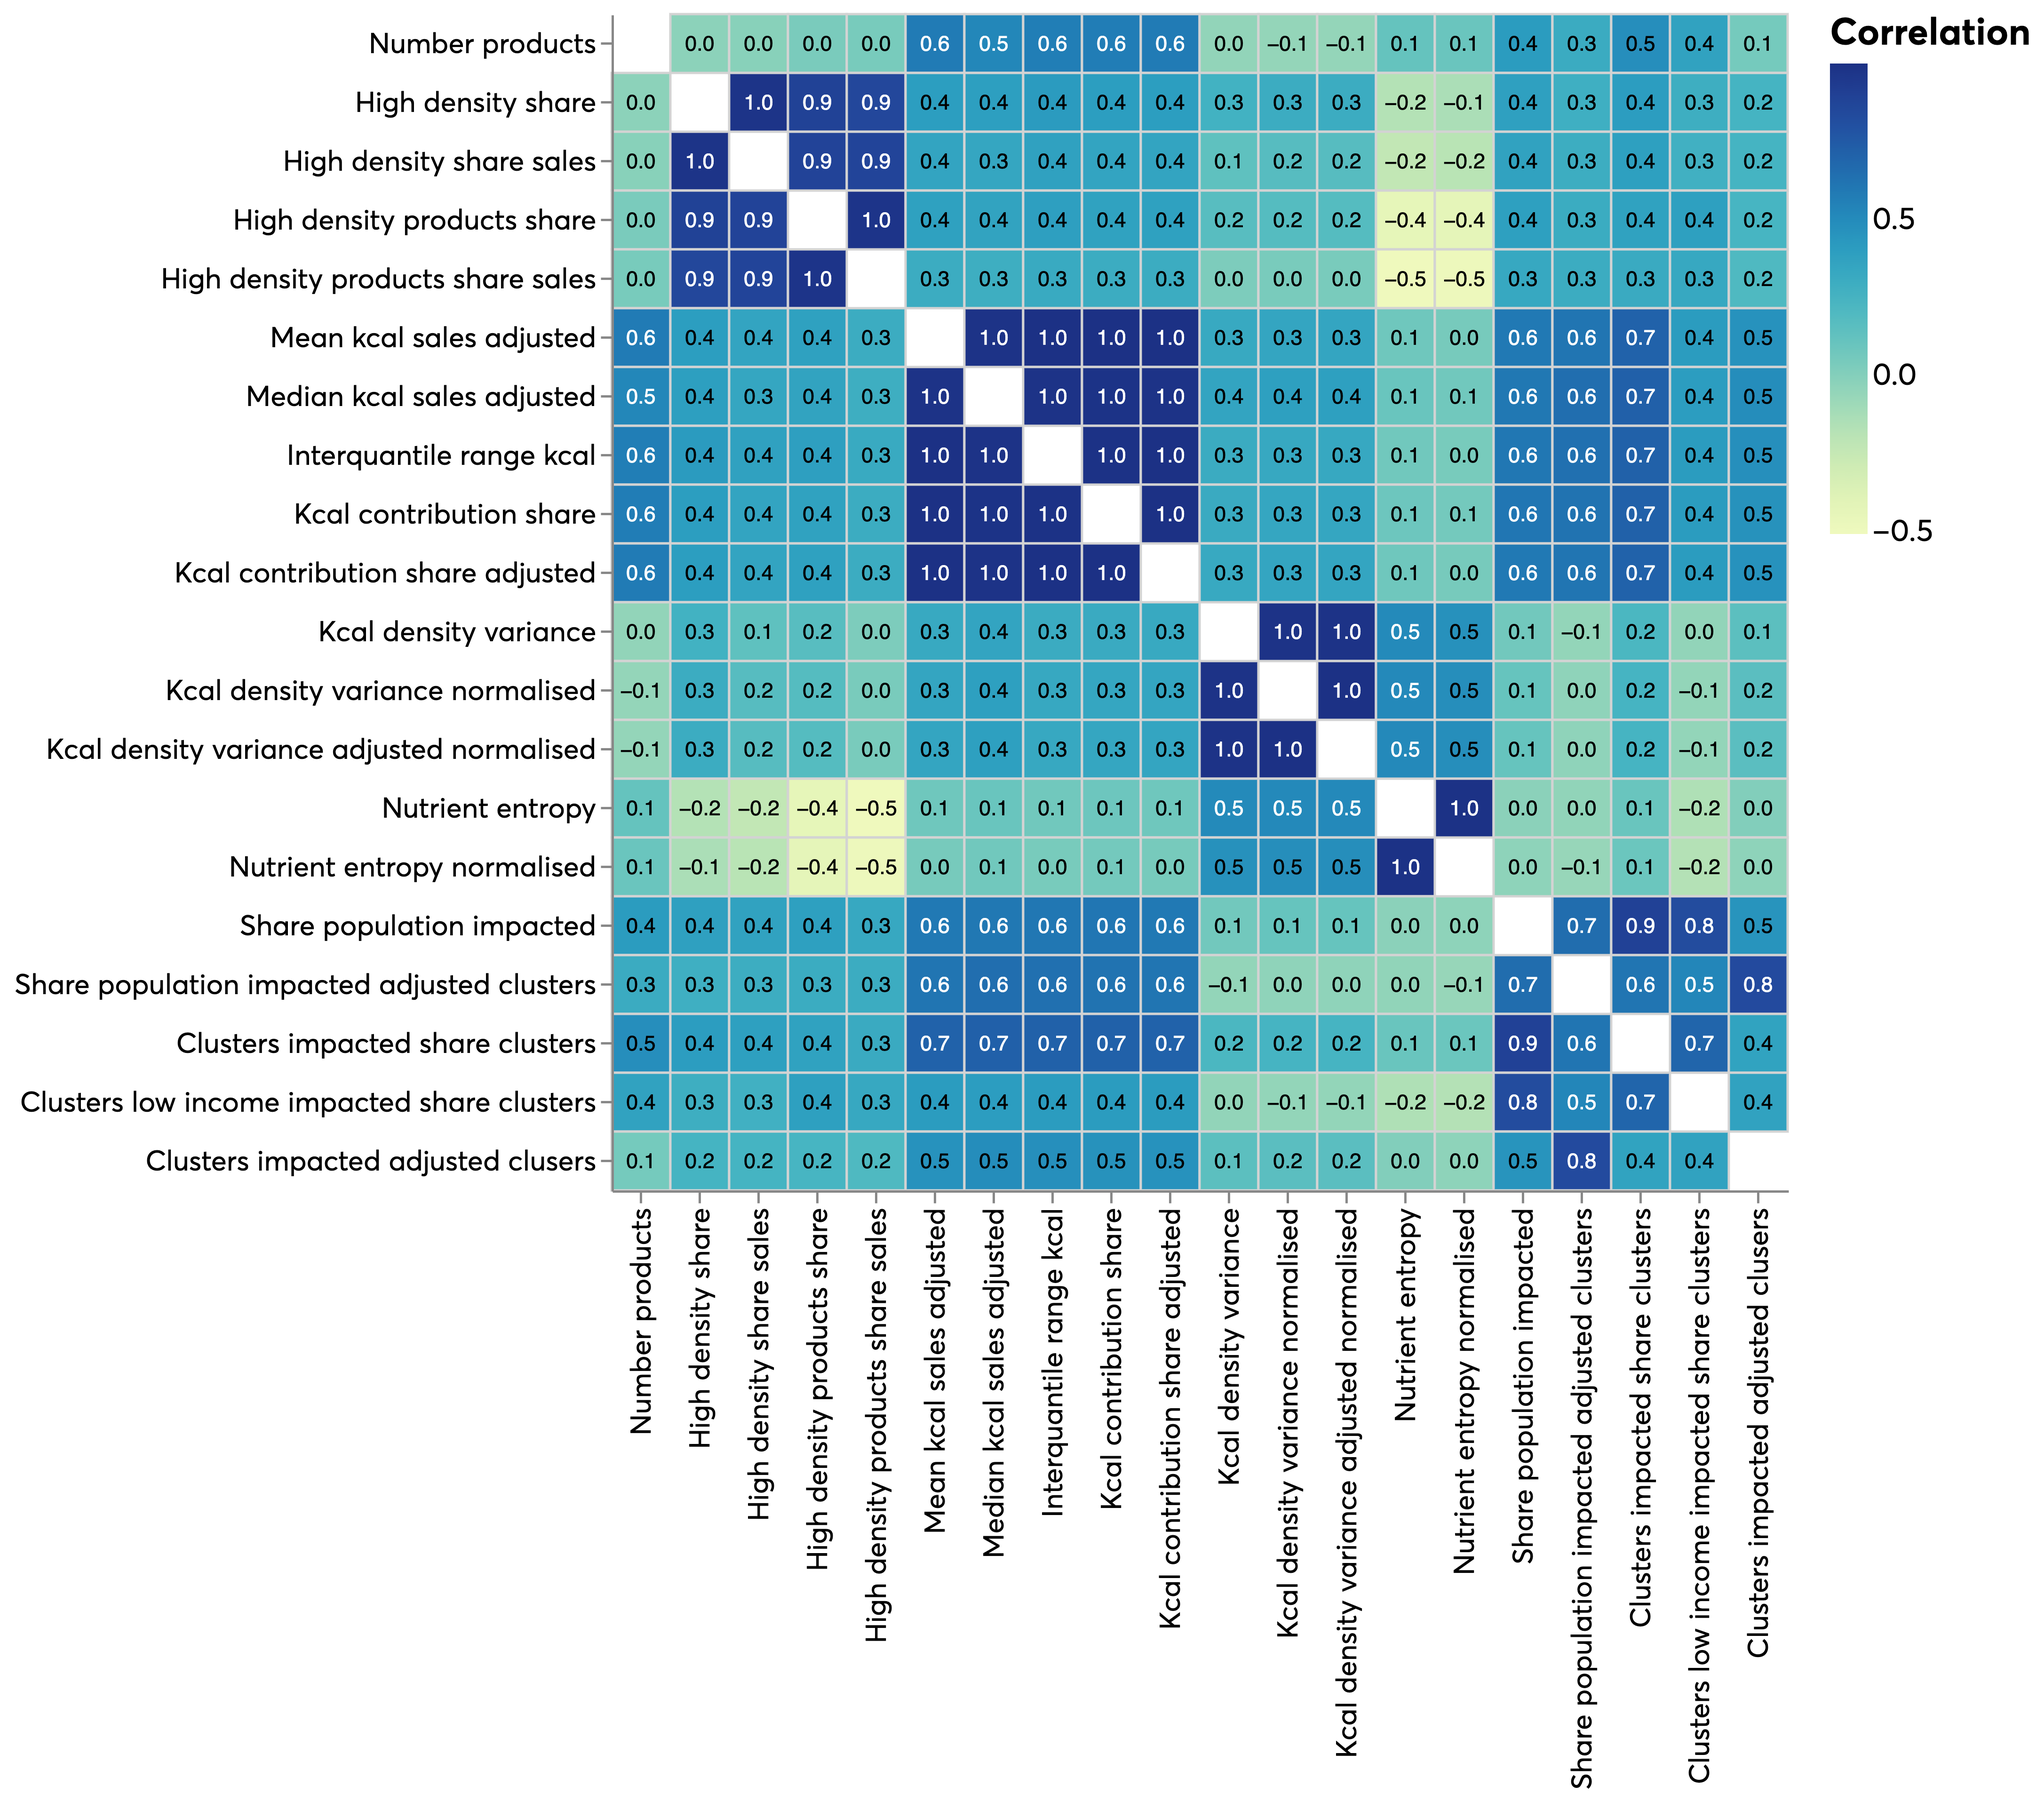
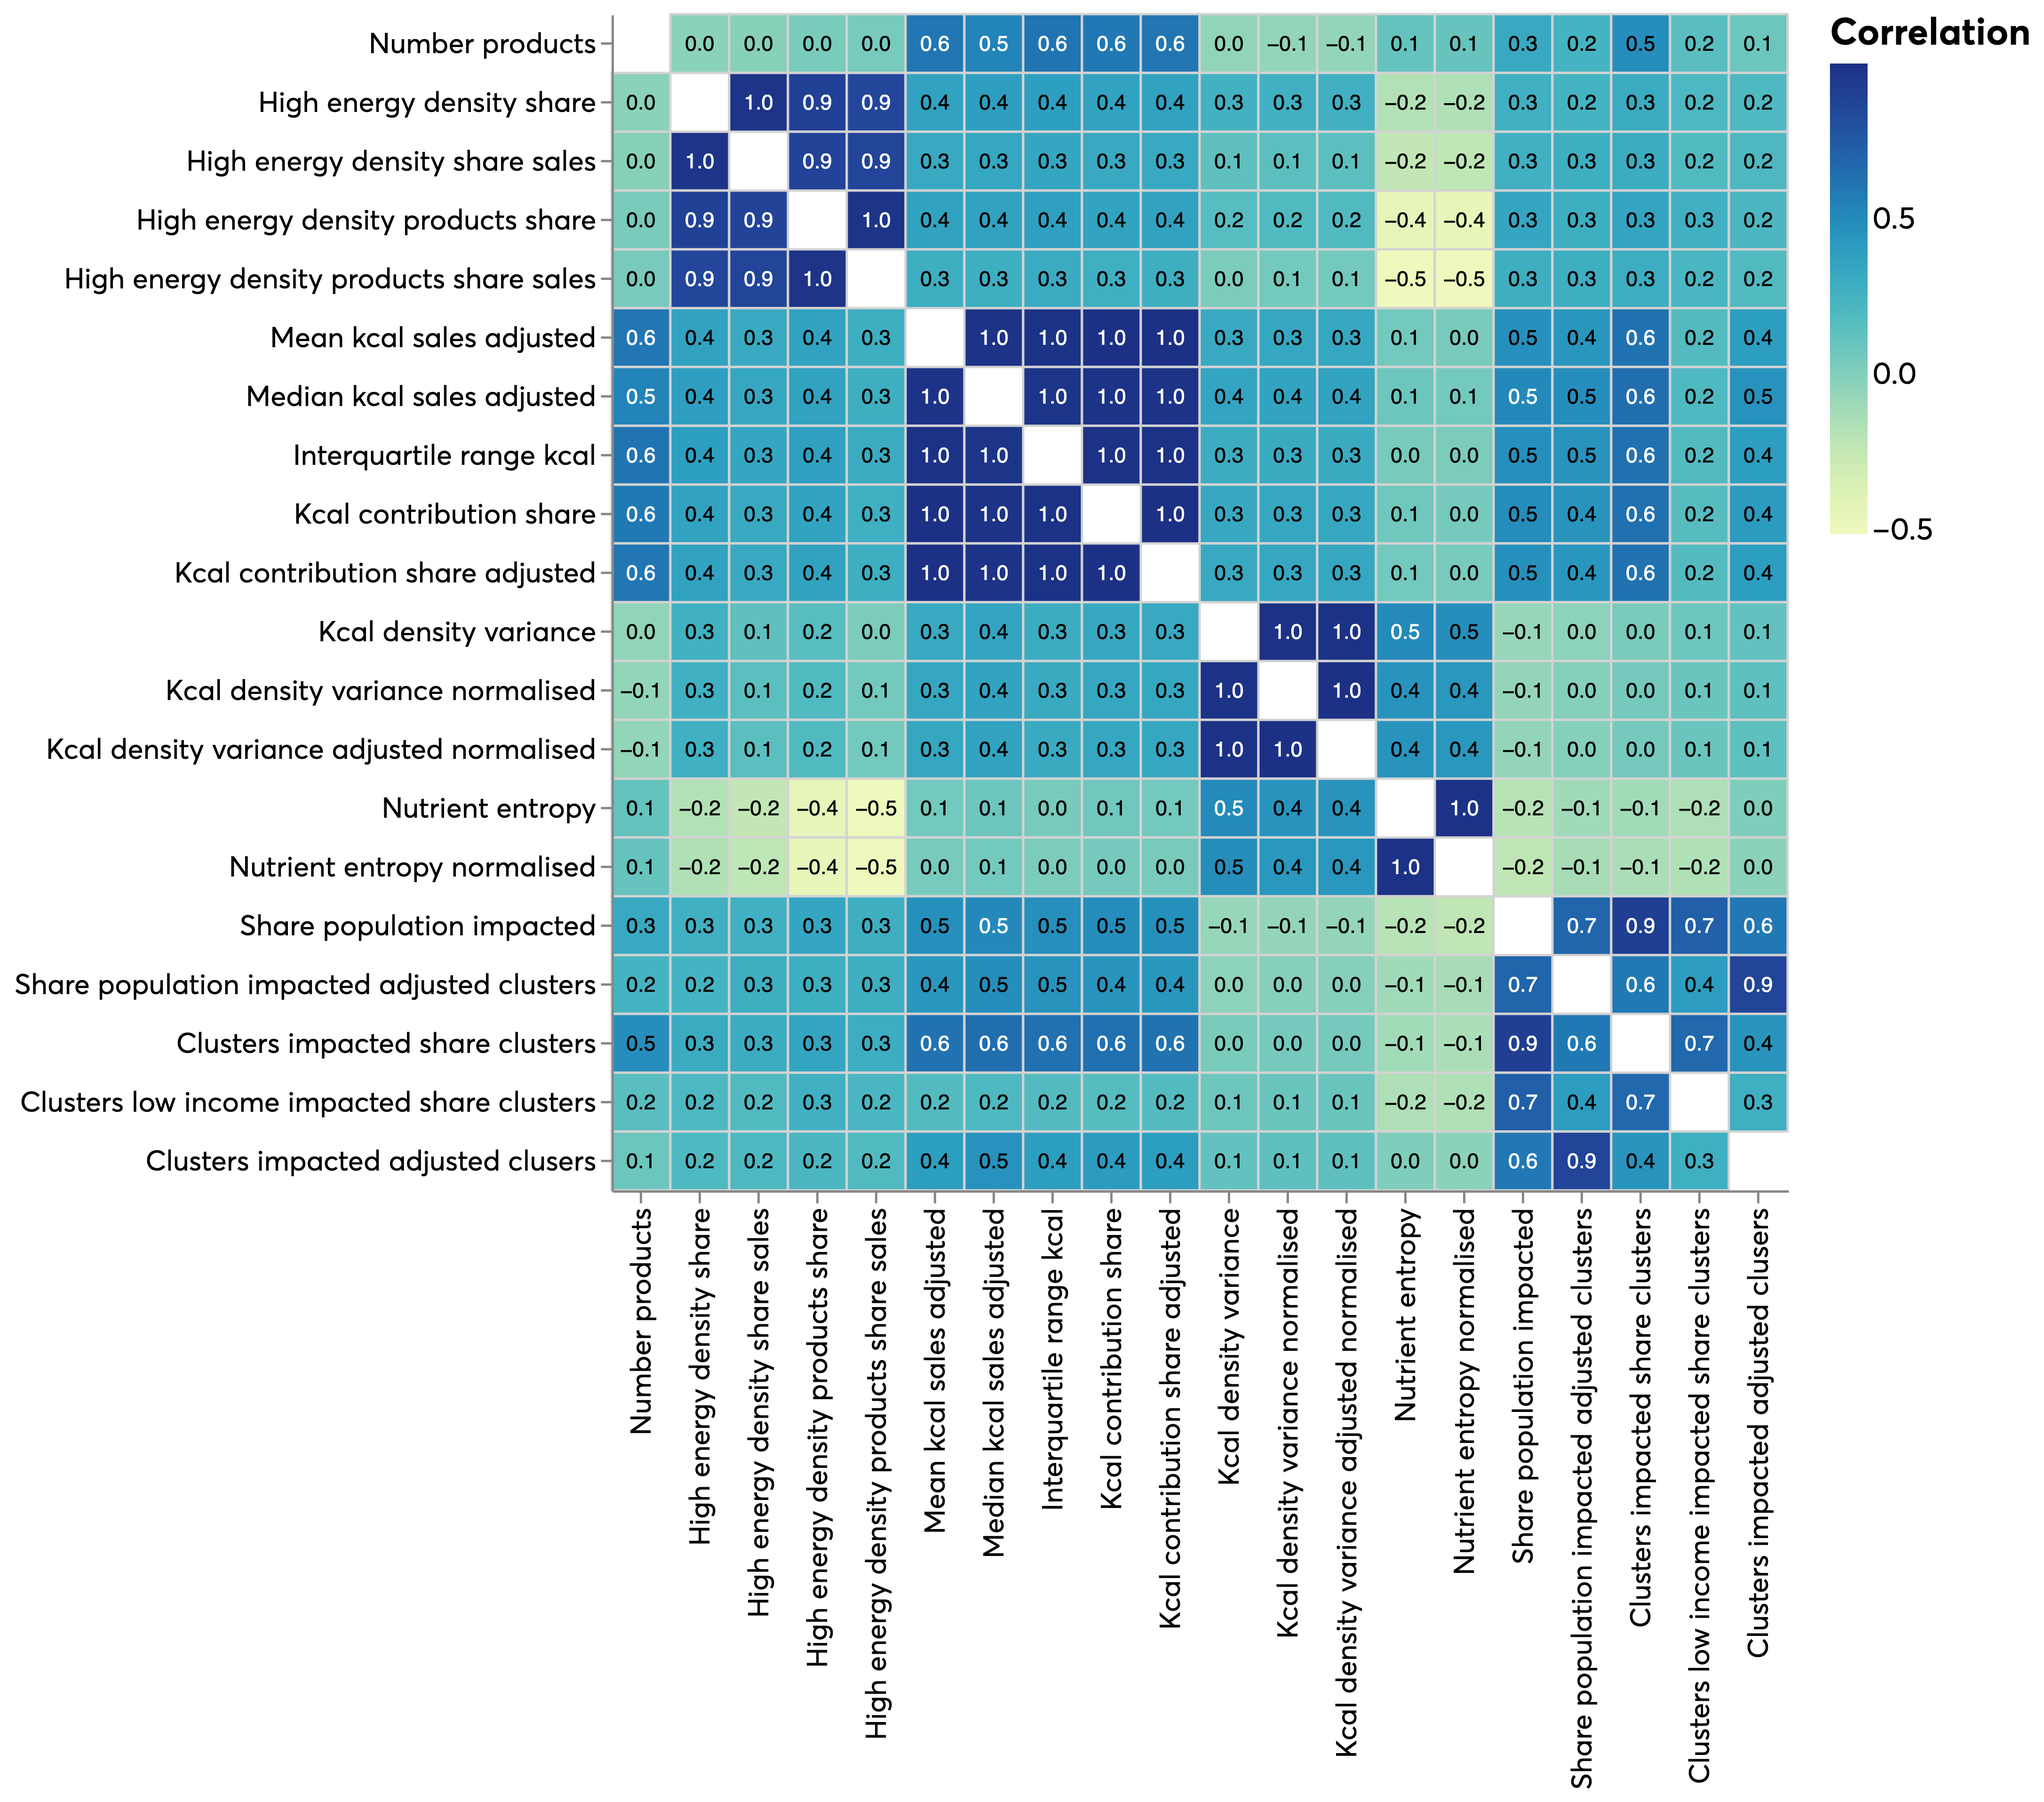
updated results

diff --git a/ahl_food_reformulation/analysis/decision_table_analysis/make_table_analysis.py b/ahl_food_reformulation/analysis/decision_table_analysis/make_table_analysis.py
@@ -1,5 +1,8 @@
 import logging
 import re
+
+
+import json
 from scipy.stats import zscore
 from toolz import pipe
 from functools import partial
@@ -19,15 +22,15 @@ from ahl_food_reformulation.utils.altair_save_utils import (
 
 clean_variable_names = {
     "number_products": "number_products",
-    "kcal_100_s": "high_density_share",
-    "kcal_100_w": "high_density_share_sales",
-    "percent_high_ed": "high_density_products_share",
-    "percent_high_ed_sales_weighted": "high_density_products_share_sales",
-    "mean_kcal_size_adj": "mean_kcal_sales_adjusted",
-    "median_kcal_size_adj": "median_kcal_sales_adjusted",
-    "IQR_kcal_size_adj": "interquantile_range_kcal",
-    "percent_kcal_contrib": "kcal_contribution_share",
-    "percent_kcal_contrib_size_adj": "kcal_contribution_share_adjusted",
+    "kcal_100_s": "high_energy_density_share",
+    "kcal_100_w": "high_energy_density_share_sales",
+    "percent_high_ed": "high_energy_density_products_share",
+    "percent_high_ed_sales_weighted": "high_energy_density_products_share_sales",
+    "mean_kcal_size_adj_weighted": "mean_kcal_sales_adjusted",
+    "median_kcal_size_adj_weighted": "median_kcal_sales_adjusted",
+    "IQR_kcal_size_adj_weighted": "interquartile_range_kcal",
+    "percent_kcal_contrib_weighted": "kcal_contribution_share",
+    "percent_kcal_contrib_size_adj_weighted": "kcal_contribution_share_adjusted",
     "variance": "kcal_density_variance",
     "variance_size_adj": "kcal_density_variance_normalised",
     "variance_adj_scaled": "kcal_density_variance_adjusted_normalised",
@@ -48,7 +51,7 @@ plotting_order = list(plotting_names.values())
 
 # We will focus on these variables after the correlation analysis
 selected_vars = [
-    "high_density_share_sales",
+    "high_energy_density_share_sales",
     "kcal_contribution_share_adjusted",
     "kcal_density_variance_normalised",
     "nutrient_entropy_normalised",
@@ -57,8 +60,8 @@ selected_vars = [
 
 # Lookup between clean variable names and categories
 var_category_lookup = {
-    "high_density_share_sales": "Desirability",
-    "kcal_contribution_share_adjusted": "Desirability",
+    "high_energy_density_share_sales": "Impact on Diets",
+    "kcal_contribution_share_adjusted": "Impact on Diets",
     "kcal_density_variance_normalised": "Feasibility",
     "nutrient_entropy_normalised": "Feasibility",
     "clusters_impacted_share_clusters": "Inclusion",
@@ -188,7 +191,7 @@ def make_recommendations(
 
     top_candidates = {}
 
-    for cat in report_table_aggregated["category"].unique():
+    for cat in ["Impact on diets", "Feasibility", "Inclusion"]:
 
         top_candidates[cat] = ", ".join(
             report_table_aggregated.query(f"category=='{cat}'").sort_values(
@@ -225,7 +228,6 @@ def make_detailed_recommendations(
         detailed_products[t] = ", ".join(
             (
                 detailed_table.query(f"rst_4_market_sector=='{t}'")
-                .dropna(axis=0, subset=variables[0])
                 # This beging by sorting by out "top criterion" and then the second
                 .sort_values(variables[0], ascending=False)[: thresholds[0]]
                 .sort_values(variables[1], ascending=False)["product"][: thresholds[1]]
@@ -341,3 +343,11 @@ if __name__ == "__main__":
     logging.info(detailed_reccs.head())
 
     detailed_reccs.to_csv(f"{PROJECT_DIR}/outputs/reports/detailed_recommendation.csv")
+
+    # Save an easier to parse version for the macro nutrient chart
+
+    with open(f"{PROJECT_DIR}/outputs/reports/detailed_products.json", "w") as outfile:
+        json.dump(
+            detailed_reccs["Detailed recommendations"].str.split(", ").to_dict(),
+            outfile,
+        )
